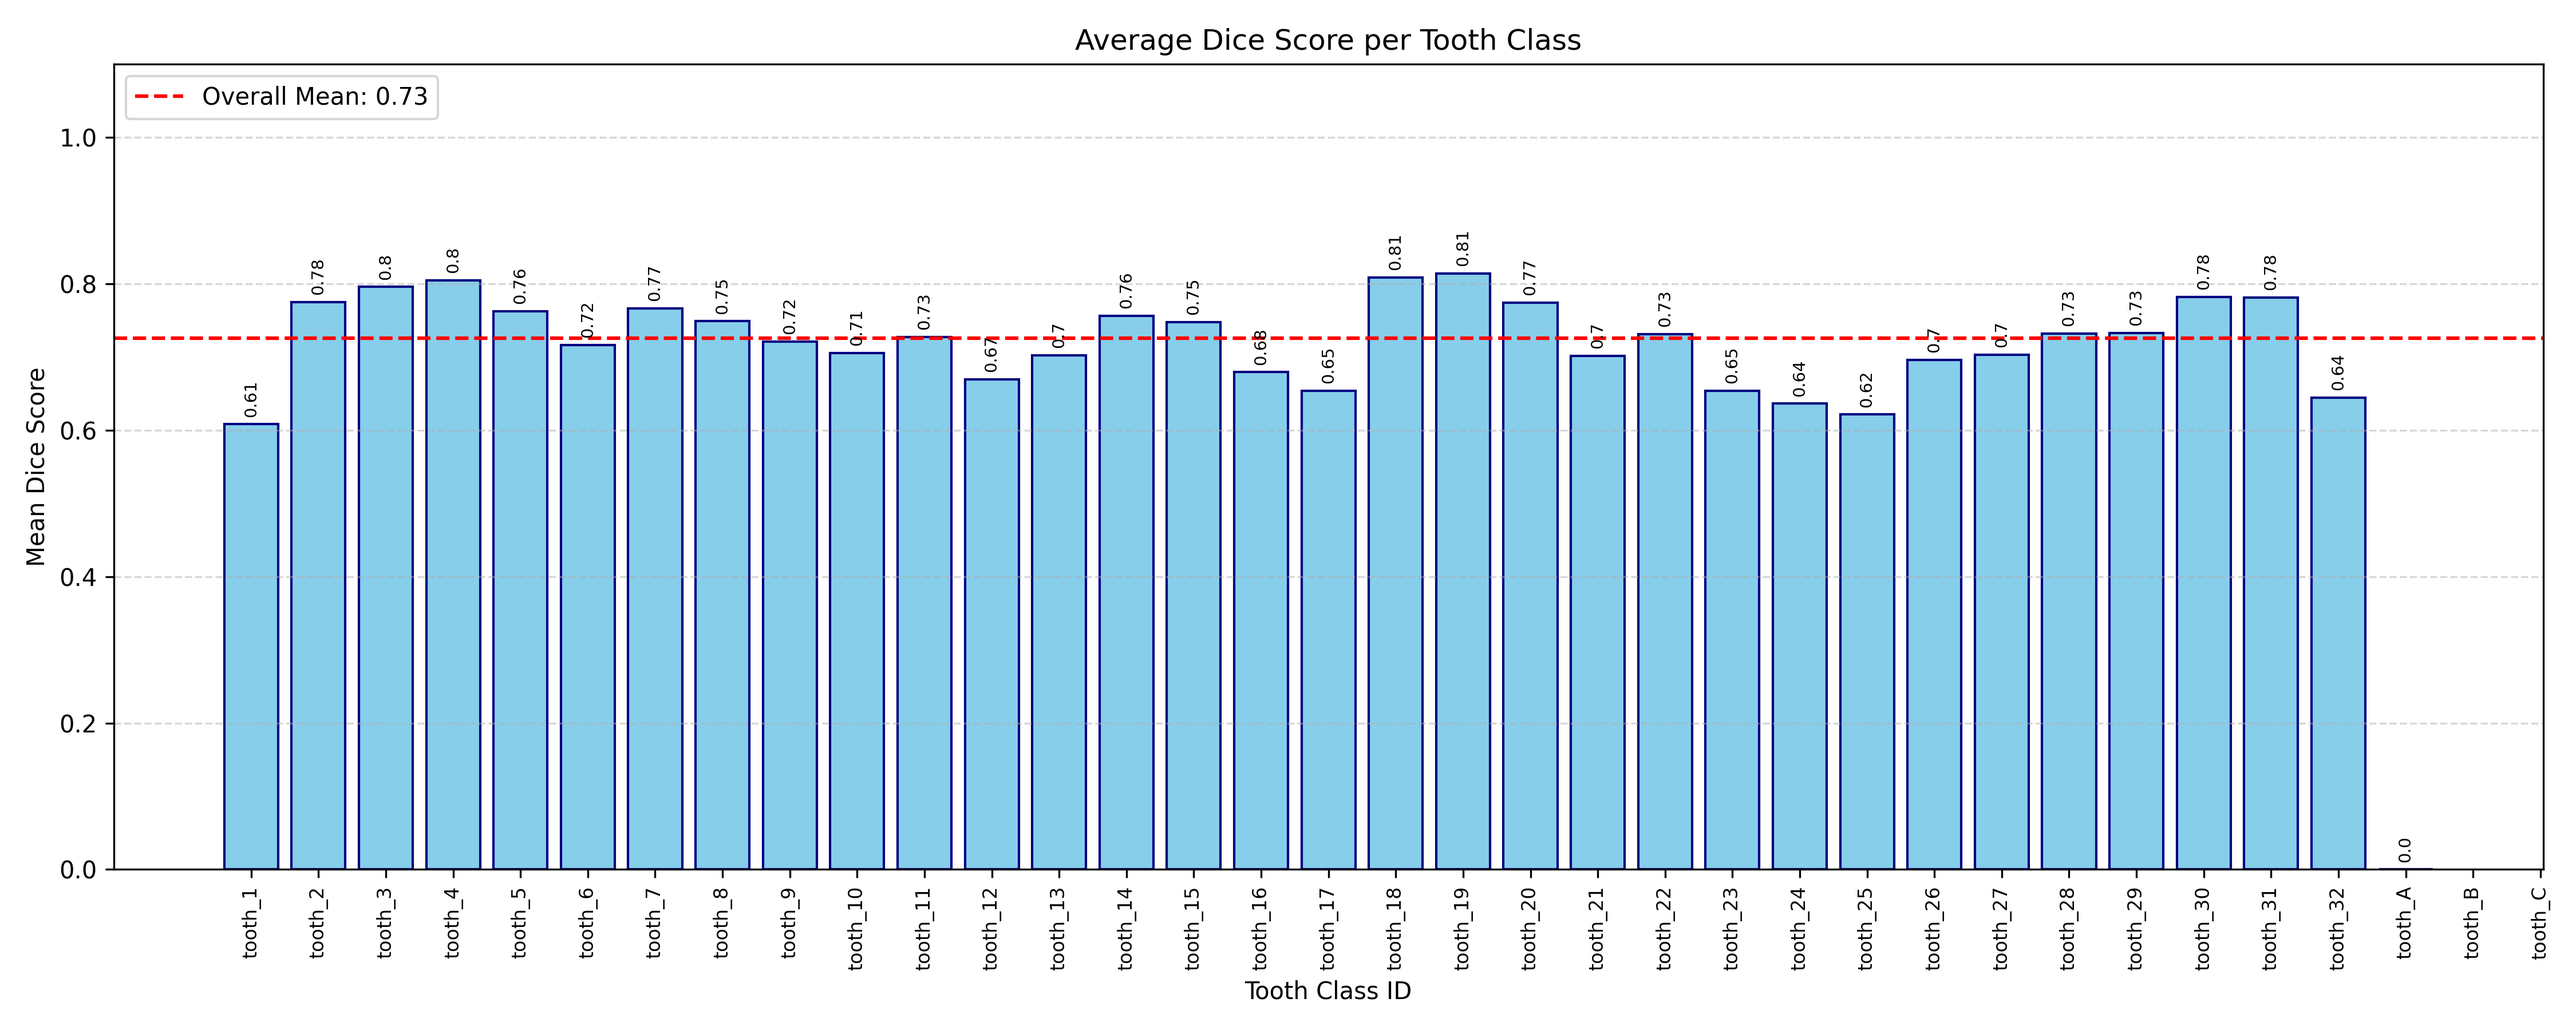
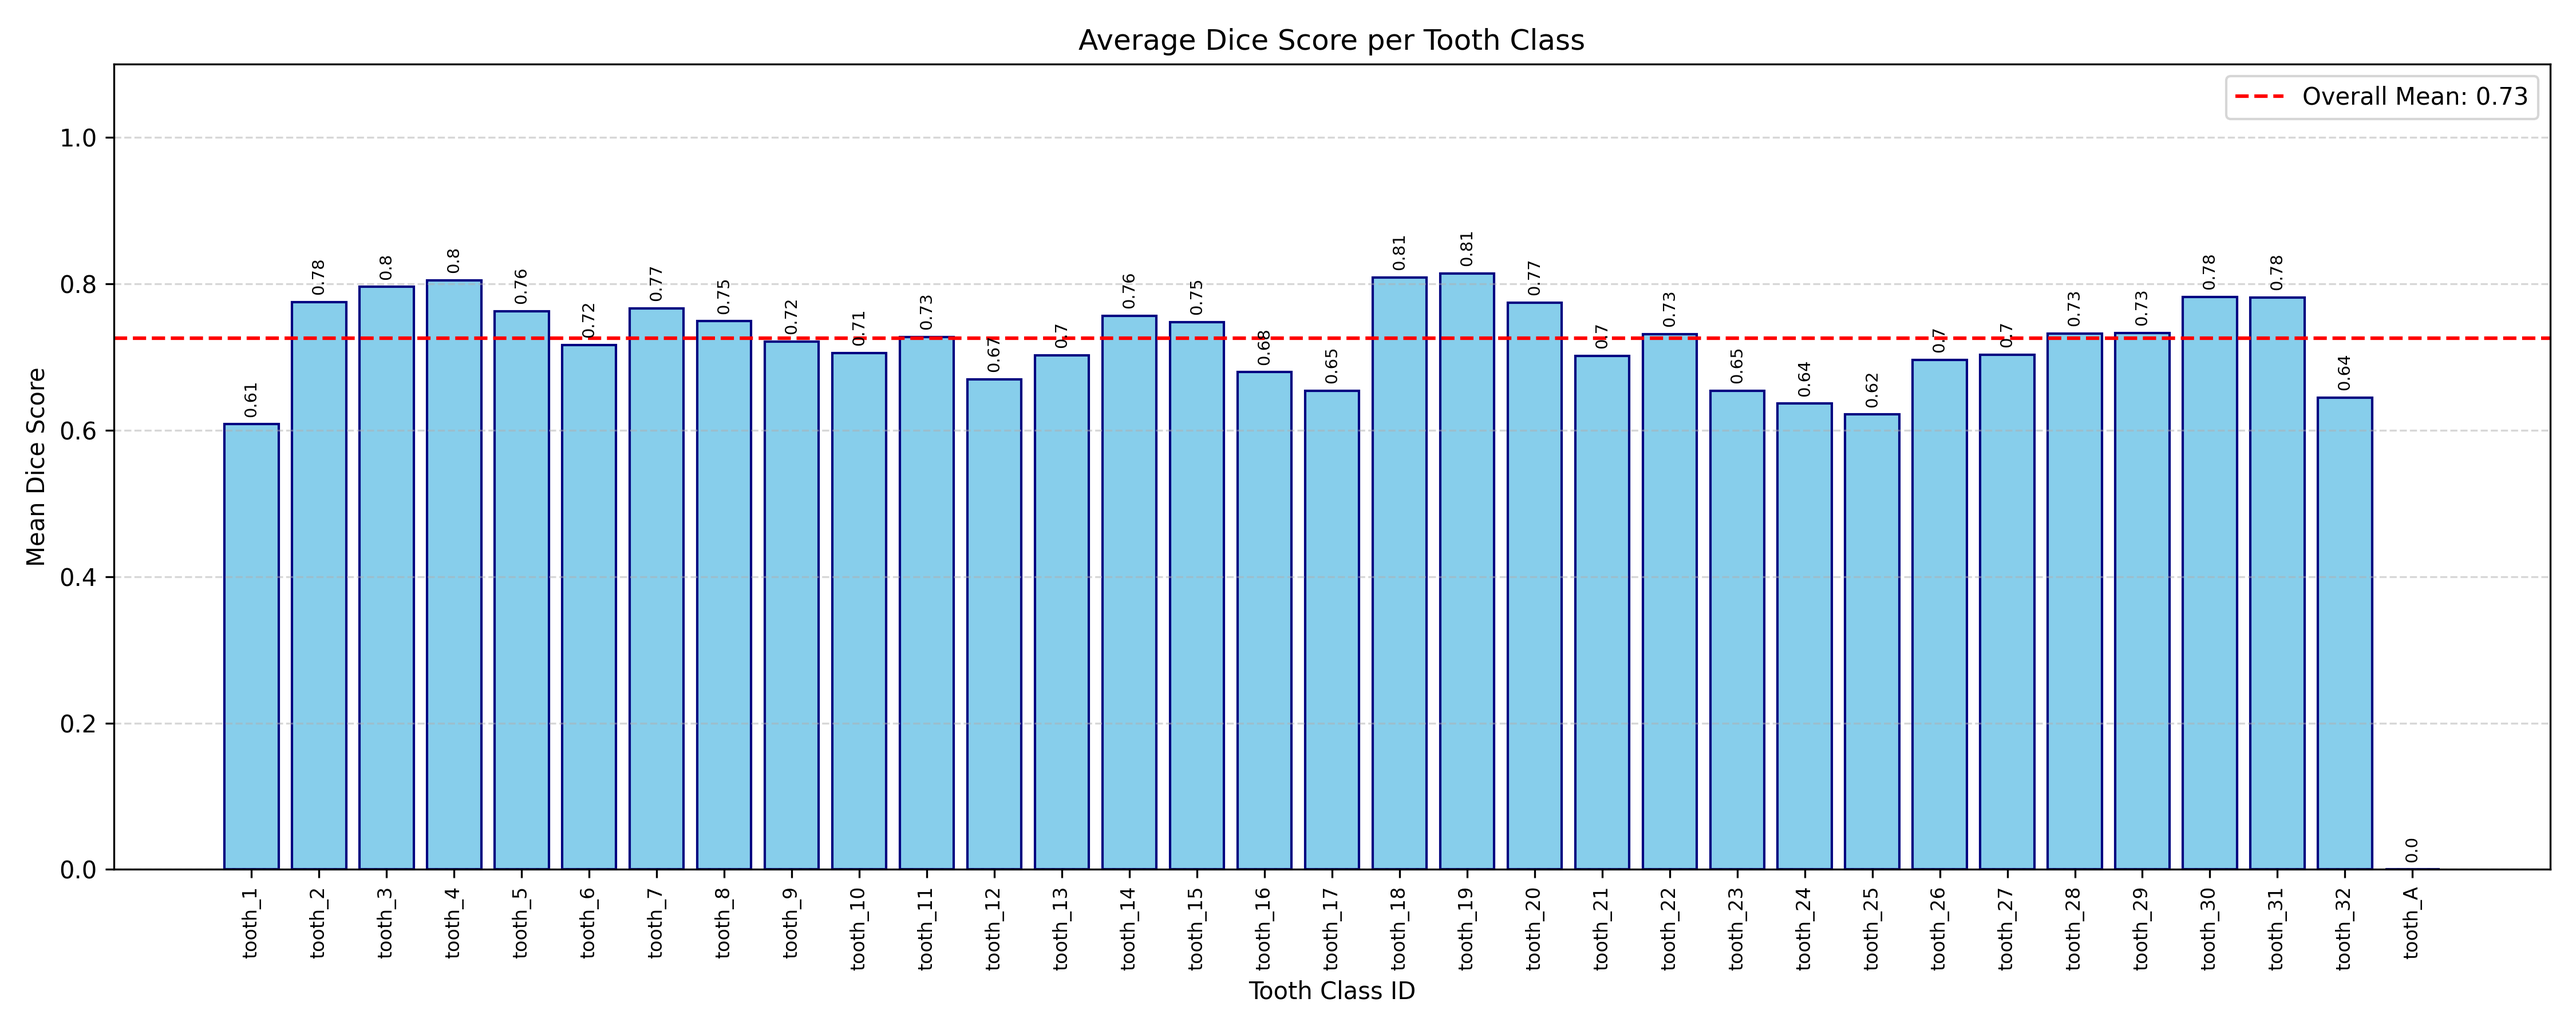
fix augmentation

diff --git a/Mask_RCNN/dataset/torch_teeth_dataset.py b/Mask_RCNN/dataset/torch_teeth_dataset.py
@@ -6,58 +6,31 @@ import cv2
 from utils.converter import polygons2mask
 from Mask_RCNN.dataset.augmentor import TeethAugmentor
 
+# File: Mask_RCNN/dataset/torch_teeth_dataset.py
+
+# ... (các import và phần đầu class TorchTeethDataset giữ nguyên) ...
+
 class TorchTeethDataset(Dataset):
-    def __init__(self, mrcnn_dataset: TeethDataset, max_size=1333, augmentation=False):
-        self.mds = mrcnn_dataset       # matterport dataset
+    def __init__(self, mrcnn_dataset: TeethDataset, max_size=1333, augmentation=False, start_aug_epoch=10):
+        self.mds = mrcnn_dataset
         self.max_size = max_size
         self.augmentation = augmentation
-        self.rare_augmentor = TeethAugmentor()
+        self.augmentor = TeethAugmentor()
+        
+        self.current_epoch = 0
+        self.start_aug_epoch = start_aug_epoch 
 
     def __len__(self):
         return len(self.mds.image_ids)
 
-    def __getitem__(self, idx):
-        info = self.mds.image_info[idx]
+    def set_epoch(self, epoch):
+        self.current_epoch = epoch
 
-        # 1. Load image bằng OpenCV để xử lý NumPy (tương thích Albumentations)
-        image_raw = cv2.imread(info["path"])
-        image_raw = cv2.cvtColor(image_raw, cv2.COLOR_BGR2RGB)
-        h_orig, w_orig = image_raw.shape[:2]
-
-        # 2. Áp dụng CLAHE 
-        lab = cv2.cvtColor(image_raw, cv2.COLOR_RGB2LAB)
-        clahe = cv2.createCLAHE(clipLimit=2.0, tileGridSize=(8, 8))
-        lab[:, :, 0] = clahe.apply(lab[:, :, 0])
-        img_np = cv2.cvtColor(lab, cv2.COLOR_LAB2RGB)
-
-        # 3. Chuẩn bị dữ liệu gốc để Augment
-        orig_masks = []
-        orig_bboxes = []
-        orig_labels = []
-
-        for obj in info["objects"]:
-            # Tạo mask ở kích thước gốc (scale=1)
-            m = polygons2mask(img_shape=(h_orig, w_orig), polygons=obj["polygons"], scale=1.0)
-            orig_masks.append(m)
-            
-            # Bbox format Pascal_VOC cho Albumentations: [x_min, y_min, x_max, y_max]
-            y_min, x_min, y_max, x_max = obj["bbox"]
-            orig_bboxes.append([x_min, y_min, x_max, y_max])
-            orig_labels.append(obj["class_id"])
-
-        # 4. THỰC HIỆN AUGMENTATION
-        # (Nếu không có object nào, bỏ qua augment để tránh lỗi)
-        if self.augmentation and len(orig_bboxes) > 0:
-            img_np, aug_masks, aug_bboxes, aug_labels = self.rare_augmentor(image=img_np, masks=orig_masks, bboxes=orig_bboxes, labels=orig_labels)
-        else:
-            aug_masks, aug_bboxes, aug_labels = orig_masks, orig_bboxes, orig_labels
-
-        # 5. RESIZE (Sau khi đã augment)
-        h_aug, w_aug = img_np.shape[:2]
-        scale = self.max_size / max(w_aug, h_aug)
-        new_w, new_h = int(w_aug * scale), int(h_aug * scale)
+    def process_image(self, img_np, masks, bboxes, labels):
+        h, w = img_np.shape[:2]
+        scale = self.max_size / max(w, h)
+        new_w, new_h = int(w * scale), int(h * scale)
         
-        # Resize ảnh
         image_resized = cv2.resize(img_np, (new_w, new_h))
         image_tensor = torch.from_numpy(image_resized).permute(2, 0, 1).float() / 255.0
 
@@ -65,45 +38,76 @@ class TorchTeethDataset(Dataset):
         all_boxes = []
         all_labels = []
 
-        # Resize masks và bboxes theo tỉ lệ mới
-        for m, b, l in zip(aug_masks, aug_bboxes, aug_labels):
-            # Resize mask bằng INTER_NEAREST để giữ tính nhị phân
+        for m, b, l in zip(masks, bboxes, labels):
             m_resized = cv2.resize(m, (new_w, new_h), interpolation=cv2.INTER_NEAREST)
-            
-            scaled_bbox = [
-                b[0] * scale, # x_min
-                b[1] * scale, # y_min
-                b[2] * scale, # x_max
-                b[3] * scale  # y_max
-            ]
-            
+            scaled_bbox = [b[0] * scale, b[1] * scale, b[2] * scale, b[3] * scale]
             all_masks.append(m_resized)
             all_boxes.append(scaled_bbox)
             all_labels.append(l)
 
         if not all_masks:
-            masks = torch.zeros((0, new_h, new_w), dtype=torch.uint8)
-            boxes = torch.zeros((0, 4), dtype=torch.float32)
-            labels = torch.zeros((0,), dtype=torch.int64)
-        else:
-            masks = torch.tensor(np.stack(all_masks)).float()
-            boxes = torch.tensor(all_boxes, dtype=torch.float32)
-            labels = torch.tensor(all_labels, dtype=torch.int64)
-        
-            valid = (boxes[:, 2] > boxes[:, 0]) & (boxes[:, 3] > boxes[:, 1])
-            boxes = boxes[valid]
-            masks = masks[valid]
-            labels = labels[valid]
+            return None
 
-            if boxes.size(0) == 0:
-                boxes = torch.zeros((0, 4), dtype=torch.float32)
-                masks = torch.zeros((0, new_h, new_w), dtype=torch.uint8)
-                labels = torch.zeros((0,), dtype=torch.int64)
+        masks_t = torch.tensor(np.stack(all_masks)).float()
+        boxes_t = torch.tensor(all_boxes, dtype=torch.float32)
+        labels_t = torch.tensor(all_labels, dtype=torch.int64)
         
+        boxes_t[:, 0] = boxes_t[:, 0].clamp(min=0, max=new_w)
+        boxes_t[:, 1] = boxes_t[:, 1].clamp(min=0, max=new_h)
+        boxes_t[:, 2] = boxes_t[:, 2].clamp(min=0, max=new_w)
+        boxes_t[:, 3] = boxes_t[:, 3].clamp(min=0, max=new_h)
+
+        valid = (boxes_t[:, 2] > boxes_t[:, 0]) & (boxes_t[:, 3] > boxes_t[:, 1])
+        
+        if valid.sum() == 0:
+            return None
+
         target = {
-            "boxes": boxes.float(),
-            "labels": labels,
-            "masks": masks.float()
+            "boxes": boxes_t[valid],
+            "labels": labels_t[valid],
+            "masks": masks_t[valid]
         }
-
         return image_tensor, target
+
+    def __getitem__(self, idx):
+        info = self.mds.image_info[idx]
+        image_raw = cv2.imread(info["path"])
+        image_raw = cv2.cvtColor(image_raw, cv2.COLOR_BGR2RGB)
+        h_orig, w_orig = image_raw.shape[:2]
+
+        lab = cv2.cvtColor(image_raw, cv2.COLOR_RGB2LAB)
+        clahe = cv2.createCLAHE(clipLimit=2.0, tileGridSize=(8, 8))
+        lab[:, :, 0] = clahe.apply(lab[:, :, 0])
+        img_np = cv2.cvtColor(lab, cv2.COLOR_LAB2RGB)
+
+        orig_masks = []
+        orig_bboxes = []
+        orig_labels = []
+
+        for obj in info["objects"]:
+            m = polygons2mask(img_shape=(h_orig, w_orig), polygons=obj["polygons"], scale=1.0)
+            orig_masks.append(m)
+            y_min, x_min, y_max, x_max = obj["bbox"]
+            orig_bboxes.append([x_min, y_min, x_max, y_max])
+            orig_labels.append(obj["class_id"])
+
+        # Tạo một list các sample để trả về
+        samples = []
+
+        # 1. Xử lý ảnh GỐC
+        original_sample = self.process_image(img_np, orig_masks, orig_bboxes, orig_labels)
+        if original_sample is not None:
+            samples.append(original_sample)
+
+        # 2. Xử lý ảnh AUGMENTATION (nếu đủ điều kiện epoch)
+        if self.augmentation and self.current_epoch >= self.start_aug_epoch and len(orig_bboxes) > 0:
+            aug_img, aug_masks, aug_bboxes, aug_labels = self.augmentor(
+                image=img_np, masks=orig_masks, bboxes=orig_bboxes, labels=orig_labels
+            )
+            augmented_sample = self.process_image(aug_img, aug_masks, aug_bboxes, aug_labels)
+            if augmented_sample is not None:
+                samples.append(augmented_sample)
+        
+        # Trả về một list các sample. collate_fn sẽ nhận list này.
+        # Nếu không có sample nào hợp lệ, trả về None để collate_fn lọc.
+        return samples if samples else None

diff --git a/ETE_train.py b/ETE_train.py
@@ -8,38 +8,29 @@ from Mask_RCNN.dataset import TeethDataset, TorchTeethDataset
 import torch.optim as optim
 
 def collate_fn(batch):
-    # Lọc bỏ những sample mà target không có boxes (răng)
-    batch = [b for b in batch if b is not None and b[1]["boxes"].numel() > 0]
-    if len(batch) == 0:
+    # batch là list các list sample: [[orig1, aug1], [orig2], [orig3, aug3], ...]
+    # hoặc [None, [orig2], None, ...] nếu __getitem__ trả về None
+    
+    # Làm phẳng list và lọc bỏ None
+    flat_batch = []
+    for item_list in batch:
+        if item_list is not None:
+            for item in item_list:
+                if item is not None:
+                    flat_batch.append(item)
+    
+    if len(flat_batch) == 0:
         return None # Trả về None nếu cả batch toàn ảnh trống
-    return tuple(zip(*batch))
+    
+    return tuple(zip(*flat_batch))
 
-"""ham bat buoc co trong cac bai segmentation nhieu vat the:
-        dua 1 batch tu dang: 
-            [
-                (image1, target1),
-                (image2, target2),
-                (image3, target3)
-            ]
-        ve 1 tensor duy nhat:
-            (
-                (image1, image2, image3),      # tuple chua cac anh
-                (target1, target2, target3)    # tuple chua cac target
-            )
-"""
 #-------------------------train_epoch-----------------------------------------------------------------------------
 def train_one_epoch(model, optimizer, data_loader, device):
     model.train()
-
     loss_sums = {
-        "roi_classifier_loss": 0.0,
-        "roi_box_loss": 0.0,
-        "roi_mask_loss": 0.0,
-        "rpn_objectness_loss": 0.0,
-        "rpn_box_loss": 0.0,
-        "total_loss": 0.0
+        "roi_classifier_loss": 0.0, "roi_box_loss": 0.0, "roi_mask_loss": 0.0,
+        "rpn_objectness_loss": 0.0, "rpn_box_loss": 0.0, "total_loss": 0.0
     }
-
     num_batches = 0
 
     for data in data_loader:
@@ -53,9 +44,9 @@ def train_one_epoch(model, optimizer, data_loader, device):
         loss_dict = model(images, targets)
         total_loss = sum(loss for loss in loss_dict.values())
 
-        optimizer.zero_grad()
-        total_loss.backward()
-        optimizer.step()
+        optimizer.zero_grad() 
+        total_loss.backward() 
+        optimizer.step()    
 
         for k in loss_dict:
             loss_sums[k] += loss_dict[k].item()
@@ -64,7 +55,7 @@ def train_one_epoch(model, optimizer, data_loader, device):
         num_batches += 1
 
     for k in loss_sums:
-        loss_sums[k] /= num_batches
+        loss_sums[k] /= max(num_batches, 1)
 
     return loss_sums
 
@@ -110,13 +101,13 @@ def main():
     device = torch.device('cuda' if torch.cuda.is_available() else 'cpu')
 
     ROOT_DIR = os.path.abspath("./")
-    DIR = os.path.join(ROOT_DIR, "data/Radiographs")
-    ANNOTATION_DIR = os.path.join(ROOT_DIR, "data/Segmentation/teeth_polygon.json")
+    DIR = os.path.join(ROOT_DIR, "data/general_Radiographs")
+    ANNOTATION_DIR = os.path.join(ROOT_DIR, "data/general_Segmentation/teeth_polygon.json")
 
     md_train = TeethDataset()
     md_train.load_teeth(DIR, "train", ANNOTATION_DIR)
     md_train.prepare()
-    train_set = TorchTeethDataset(md_train, max_size=1333, augmentation=True)
+    train_set = TorchTeethDataset(md_train, max_size=1333, augmentation=True, start_aug_epoch=10)
 
     md_val = TeethDataset()
     md_val.load_teeth(DIR, "val", ANNOTATION_DIR)
@@ -180,6 +171,7 @@ def main():
     #--------------------------------------------epoch---------------------------------------------------------------
     for epoch in range(num_epochs):
         start_time = time.time()
+        train_set.set_epoch(epoch + 1)
 
         train_loss = train_one_epoch(model, optimizer, train_loader, device)
         val_loss = valid_one_epoch(model, val_loader, device)

diff --git a/Mask_RCNN/dataset/augmentor.py b/Mask_RCNN/dataset/augmentor.py
@@ -1,31 +1,21 @@
 import albumentations as A
 
 class TeethAugmentor:
-    def __init__(self):
-        self.rare_ids = []   # Thêm các ID răng sữa A-T vào đây
-        
-        # 1. Augment NHẸ (Áp dụng cho TẤT CẢ ảnh)
-        self.base_transform = A.Compose([
-            A.ShiftScaleRotate(shift_limit=0.04, scale_limit=0.04, rotate_limit=8, p=0.5),
-            A.RandomBrightnessContrast(brightness_limit=0.1, contrast_limit=0.1, p=0.5),
-            A.GaussNoise(std_range=(0.02, 0.05), p=0.3),
-        ], bbox_params=A.BboxParams(format='pascal_voc', label_fields=['class_labels']))
-
-        # 2. Augment NẶNG (Chỉ thêm vào khi có răng hiếm)
-        self.heavy_transform = A.Compose([
+    def __init__(self):        
+        self.transform = A.Compose([
+            A.RandomBrightnessContrast(brightness_limit=0.15,contrast_limit=0.15,p=0.8),
+            A.GaussNoise( std_range=(0.01, 0.03), p=0.2),
+            A.GaussianBlur(blur_limit=3, p=0.2),
+            A.ShiftScaleRotate(shift_limit=0.02, scale_limit=0.03, rotate_limit=5, p=0.3),
             A.OneOf([
-                A.ElasticTransform(alpha=1, sigma=50, p=1.0),
-                A.GridDistortion(num_steps=5, distort_limit=0.15, p=1.0),
-            ], p=0.3),
-        ], bbox_params=A.BboxParams(format='pascal_voc', label_fields=['class_labels']))
+                A.ElasticTransform(alpha=0.5, sigma=40, p=1.0),
+                A.GridDistortion(num_steps=5, distort_limit=0.1, p=1.0),
+            ], p=0.2),],
+            bbox_params=A.BboxParams(format='pascal_voc',label_fields=['class_labels'],min_visibility=0.3))
 
     def __call__(self, image, masks, bboxes, labels):
-        augmented = self.base_transform(image=image, masks=masks, bboxes=bboxes, class_labels=labels)
-        image, masks, bboxes, labels = augmented['image'], augmented['masks'], augmented['bboxes'], augmented['class_labels']
-
-        has_rare = any(lid in self.rare_ids for lid in labels)
-        if has_rare:
-            heavy_augmented = self.heavy_transform(image=image, masks=masks, bboxes=bboxes, class_labels=labels)
-            image, masks, bboxes, labels = heavy_augmented['image'], heavy_augmented['masks'], heavy_augmented['bboxes'], heavy_augmented['class_labels']
-            
-        return image, masks, bboxes, labels
+        try:
+            augmented = self.transform(image=image, masks=masks, bboxes=bboxes, class_labels=labels)
+            return augmented['image'], augmented['masks'], augmented['bboxes'], augmented['class_labels']
+        except Exception as e:
+            return image, masks, bboxes, labels

diff --git a/Mask_RCNN/model/mask_rcnn.py b/Mask_RCNN/model/mask_rcnn.py
@@ -115,15 +115,15 @@ class MaskRCNN(nn.Module):
         # print("Num proposals:", len(proposal[0]))
         # print("Sample proposals:", proposal[0][:5])
 
-        if not self.training:
-            print(f"RPN generated {len(proposal)} proposals")
+        # if not self.training:
+        #     print(f"RPN generated {len(proposal)} proposals")
 
         result, roi_losses = self.head(feature, proposal, image_shape, target)
 
-        if not self.training:
-            print(f"RoI Head detected {len(result['boxes'])} objects")
-            if len(result['boxes']) > 0:
-                print(f"Max Score: {result['scores'].max().item()}")
+        # if not self.training:
+        #     print(f"RoI Head detected {len(result['boxes'])} objects")
+        #     if len(result['boxes']) > 0:
+        #         print(f"Max Score: {result['scores'].max().item()}")
         
         if self.training:
             return dict(**rpn_losses, **roi_losses)
@@ -182,7 +182,7 @@ class ResBackbone(nn.Module):
         for name, parameter in body.named_parameters():
             if 'layer2' not in name and 'layer3' not in name and 'layer4' not in name:
                 parameter.requires_grad_(False) #freeze cac tham so khong thuoc layer2,3,4, chi hoc 2,3 ,4 
-                
+               
         self.body = nn.ModuleDict(d for i, d in enumerate(body.named_children()) if i < 7)
         in_channels =1024
         self.out_channels = 256

diff --git a/visualizer.py b/visualizer.py
@@ -198,8 +198,8 @@ class TeethVisualizer:
 if __name__ == "__main__":
 
     ROOT_DIR = os.path.abspath("./")
-    DIR = os.path.join(ROOT_DIR, "data/Radiographs")
-    ANNOTATION_DIR = os.path.join(ROOT_DIR, "data/Segmentation/teeth_polygon.json")
+    DIR = os.path.join(ROOT_DIR, "data/general_Radiographs")
+    ANNOTATION_DIR = os.path.join(ROOT_DIR, "data/general_Segmentation/teeth_polygon.json")
     WEIGHTS_PATH = os.path.join(ROOT_DIR, "data/weights_ETE_train/maskrcnn_epoch34.pth")
 
     #----------------------------------------------------

diff --git a/evaluation/evaluate_dice.py b/evaluation/evaluate_dice.py
@@ -173,7 +173,7 @@ def main():
     ROOT_DIR = PROJECT_ROOT / "data"
     DIR = ROOT_DIR / "general_Radiographs"
     ANN = ROOT_DIR / "general_Segmentation/teeth_polygon.json"
-    WEIGHTS_PATH = "data/weights_ETE_train/maskrcnn_epoch60.pth" 
+    WEIGHTS_PATH = "data/weights_ETE_train/maskrcnn_epoch_best.pth" 
 
     # Load Data
     md = teeth_dataset.TeethDataset()
